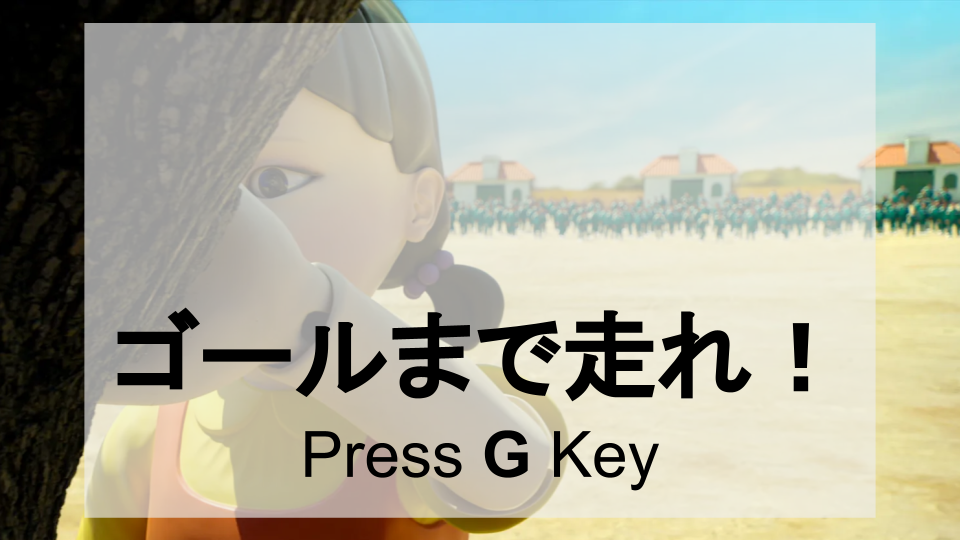
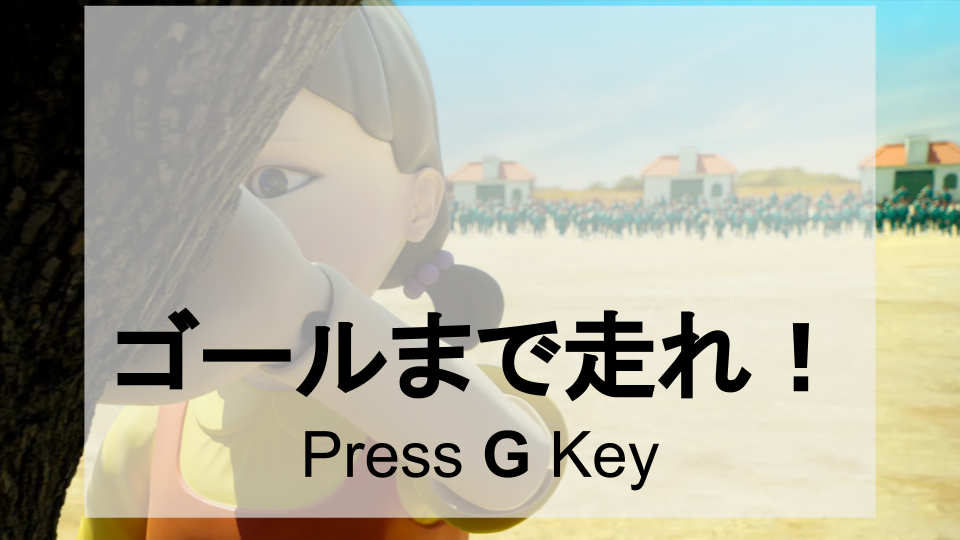
カメラ画面を適切に配置

Changed region(s): [[0.0625, 0.0, 0.9375, 0.0593]]

diff --git a/tools/demo_track.py b/tools/demo_track.py
@@ -551,7 +551,7 @@ def main(exp, args):
                         ret_val, frame = cap.read()
                         frame = cv2.flip(frame, 1)
                         fg_h, fg_w = frame.shape[:2]
-                        M = cv2.getRotationMatrix2D(center=(1150, 560), angle=0, scale=0.4)
+                        M = cv2.getRotationMatrix2D(center=(700, 30), angle=0, scale=0.6)
 
                         h, w = RUN_IMG.shape[:2]
                         dst = cv2.warpAffine(frame, M, dsize=(w, h), dst=RUN_IMG, borderMode=cv2.BORDER_TRANSPARENT)
@@ -569,10 +569,17 @@ def main(exp, args):
                     id += killed_id
                     
                     # 脱落者が出たとき
-                    if int(len(killed_id)) != 0:
+                    if int(len(killed_id)) == 0:
                         TIME_STAMP = time.time()
                         while time.time()-TIME_STAMP<3:
-                            cv2.imshow(WINDOW_NAME, FRAME_OUT_IMG)
+                            ret_val, frame = cap.read()
+                            frame = cv2.flip(frame, 1)
+                            fg_h, fg_w = frame.shape[:2]
+                            M = cv2.getRotationMatrix2D(center=(800, 100), angle=0, scale=0.7)
+
+                            h, w = FRAME_OUT_IMG.shape[:2]
+                            dst = cv2.warpAffine(frame, M, dsize=(w, h), dst=FRAME_OUT_IMG, borderMode=cv2.BORDER_TRANSPARENT)
+                            cv2.imshow(WINDOW_NAME, dst)
                             ch = cv2.waitKey(1)
                             if ch == 27 or ch == ord("q") or ch == ord("Q"):
                                 break
